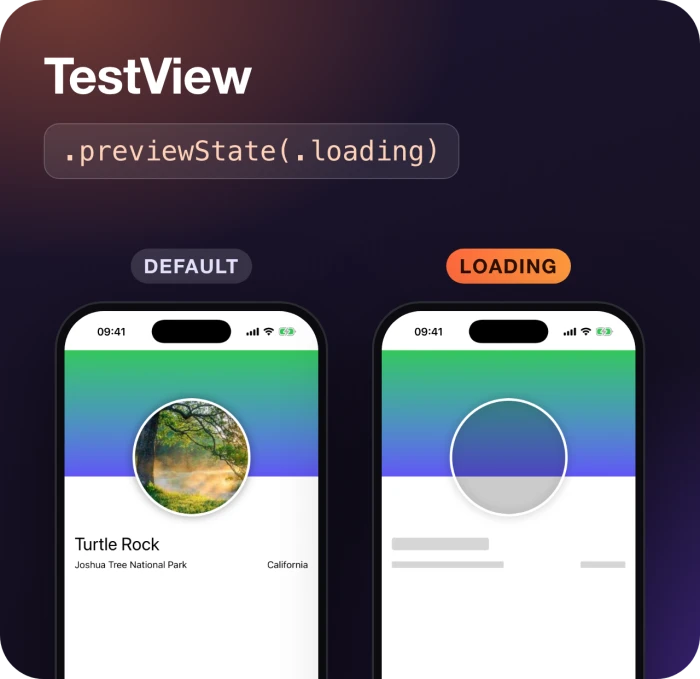
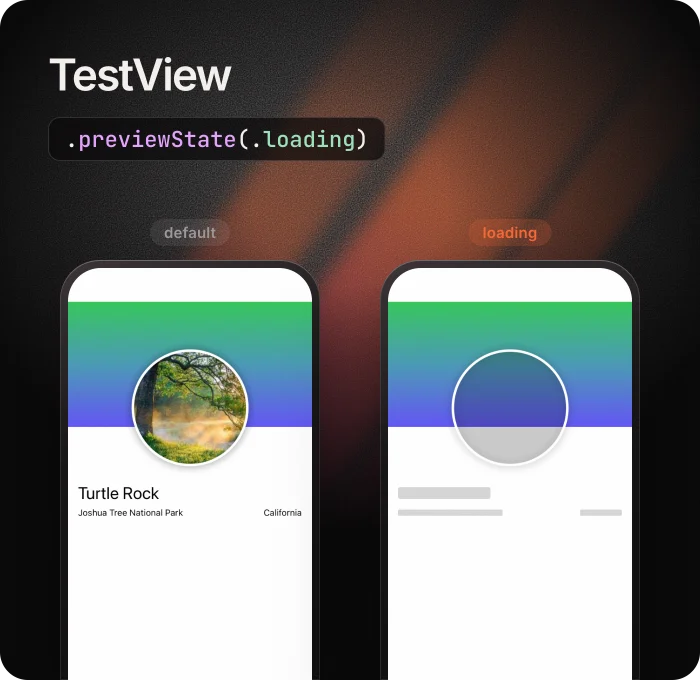
Restyle README with the new brand kit
Replace the hero SVGs, whose purple gradients the kit no longer uses,
with a banner in the kit's style: night background, ember rays and real
TripView renders. Redraw the states image from light TestView renders,
add an AI agents image built from real render_previews output, and
rewrite the intro and Why Prefire in the kit's voice. Link the website
and the brand kit.

diff --git a/README.md b/README.md
@@ -1,13 +1,10 @@
 <p align="center">
-  <picture>
-    <source media="(prefers-color-scheme: dark)" srcset="Documentation/Images/hero-dark.svg">
-    <img alt="Prefire: turn #Preview into snapshot tests, a Playbook and AI-ready renders" src="Documentation/Images/hero-light.svg" width="100%">
-  </picture>
+  <a href="https://prefire.ru"><img alt="Prefire: your previews are already tests. Snapshot tests, a Playbook and renders your AI agent can see, all from #Preview" src="Documentation/Images/hero.webp" width="100%"></a>
 </p>
 
 <p align="center">
 <a href="https://github.com/BarredEwe/Prefire/releases/latest"><img alt="Release" src="https://img.shields.io/github/release/BarredEwe/Prefire.svg"/></a>
-<a href="https://github.com/BarredEwe/Prefire/stargazers"><img alt="Stars" src="https://img.shields.io/github/stars/BarredEwe/Prefire?style=flat&logo=github&color=ff7a1a"/></a>
+<a href="https://github.com/BarredEwe/Prefire/stargazers"><img alt="Stars" src="https://img.shields.io/github/stars/BarredEwe/Prefire?style=flat&logo=github&color=ff6a35"/></a>
 <a href="https://developer.apple.com/"><img alt="Platform" src="https://img.shields.io/badge/platform-iOS%20%7C%20macOS%20%7C%20tvOS-green.svg"/></a>
 <a href="https://developer.apple.com/swift"><img alt="Swift6" src="https://img.shields.io/badge/language-Swift_6-green.svg"/></a>
 <a href="https://swift.org/package-manager"><img alt="Swift Package Manager" src="https://img.shields.io/badge/SwiftPM-compatible-yellowgreen.svg"/></a>
@@ -20,28 +17,29 @@
   <a href="#-usage"><b>Usage</b></a> ·
   <a href="#-let-ai-agents-see-swiftui"><b>AI agents</b></a> ·
   <a href="#-configuration-prefireyml"><b>Configuration</b></a> ·
-  <a href="Documentation"><b>Docs</b></a>
+  <a href="Documentation"><b>Docs</b></a> ·
+  <a href="https://prefire.ru"><b>Website</b></a>
 </p>
 
 ## 🔥 What is Prefire?
 
-**Prefire** turns the `#Preview` blocks you already write into tests, a catalog and images, with no extra code.
+Your previews are already tests. **Prefire** turns the `#Preview` blocks you write anyway into snapshot tests, a Playbook catalog and images your AI agent can see. You don't write a line of test code.
 
 <table>
   <tr>
     <td width="33%" valign="top">
       <h3>📸 Snapshot tests</h3>
-      Every preview becomes a snapshot test, on the devices you pick. Catch visual regressions before users do.
+      Every preview becomes a snapshot test on the devices you pick. A changed padding fails the build, not the release.
       <br><br><a href="#snapshot-tests">How it works →</a>
     </td>
     <td width="33%" valign="top">
       <h3>📚 Playbook</h3>
-      An interactive catalog of your components and user stories, with states and render times. Living documentation.
+      A catalog of every component and user story inside your app, with their states and render times.
       <br><br><a href="#playbook-demo-view">See Playbook →</a>
     </td>
     <td width="33%" valign="top">
-      <h3>🤖 AI-ready renders</h3>
-      Claude Code, Cursor and Codex render your previews through an MCP server, on any iPhone or iPad, light or dark.
+      <h3>🤖 Renders for AI agents</h3>
+      Claude Code, Cursor and Codex render your previews through an MCP server and see the UI they just changed.
       <br><br><a href="#-let-ai-agents-see-swiftui">Set up →</a>
     </td>
   </tr>
@@ -63,12 +61,12 @@
 - 🧠 **Fast Caching** — fingerprint-based AST and body caching avoids redundant work
 - ✍ **Stencil Templates** — customize output with [your own templates](Documentation/Templates.md)
 
-### Why Prefire? 
+### Why Prefire?
 
-- 🔥 **Save Time** - Generate tests and documentation automatically
-- 🔥 **Stay Consistent** - Keep previews and tests always in sync
-- 🔥 **Improve Quality** - Catch visual regressions before users do
-- 🔥 **Boost Collaboration** - Share living documentation with your team
+- 🔥 **No second set of UI states.** Tests come from the previews you already keep up to date.
+- 🔥 **Regressions fail CI.** Snapshots are compared on every run, on every device you list.
+- 🔥 **Designers and QA see every state.** Playbook shows components and user stories on a device.
+- 🔥 **Agents check their own UI work.** They render the previews they changed before calling a task done.
 
 <br clear="all">
 
@@ -290,6 +288,8 @@ Run `prefire tests --help` or `prefire playbook --help` for more options.
 Prefire renders previews in its snapshot tests, built anew and on the devices you choose, so it can
 show them to an AI agent as images, which Xcode Previews can't do reliably outside Xcode.
 
+<img src="Documentation/Images/ai-agents.webp" alt="An agent calls render_previews for three previews of the Trip screen and gets dark mode PNGs back" width="100%">
+
 ```bash
 # Render previews to PNG + JSON
 prefire render "Sign in" --device "iPhone 16 Pro" --color-scheme dark
@@ -362,6 +362,8 @@ Swift, AppKit + SwiftUI, 29 MB. Free; only skins are paid.
 ## 🤝 Contributing
 
 We welcome contributions! Development setup, tests and the internal architecture are described in [CONTRIBUTING.md](CONTRIBUTING.md).
+
+Logo, colors and templates for talks and posts about Prefire are in the [brand kit](https://prefire.ru/brand/).
 
 ## ⭐ Star history
 
